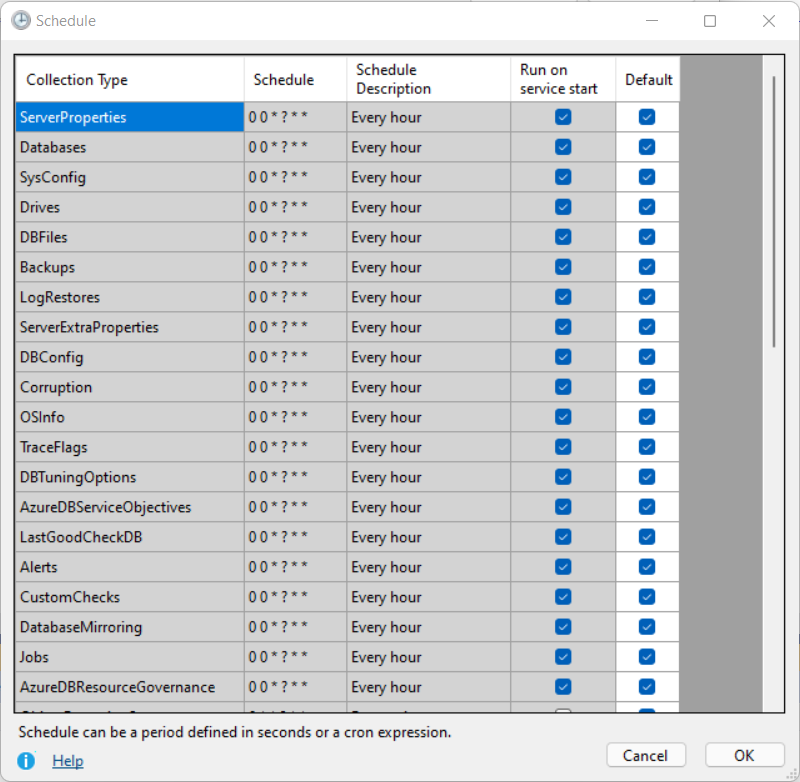
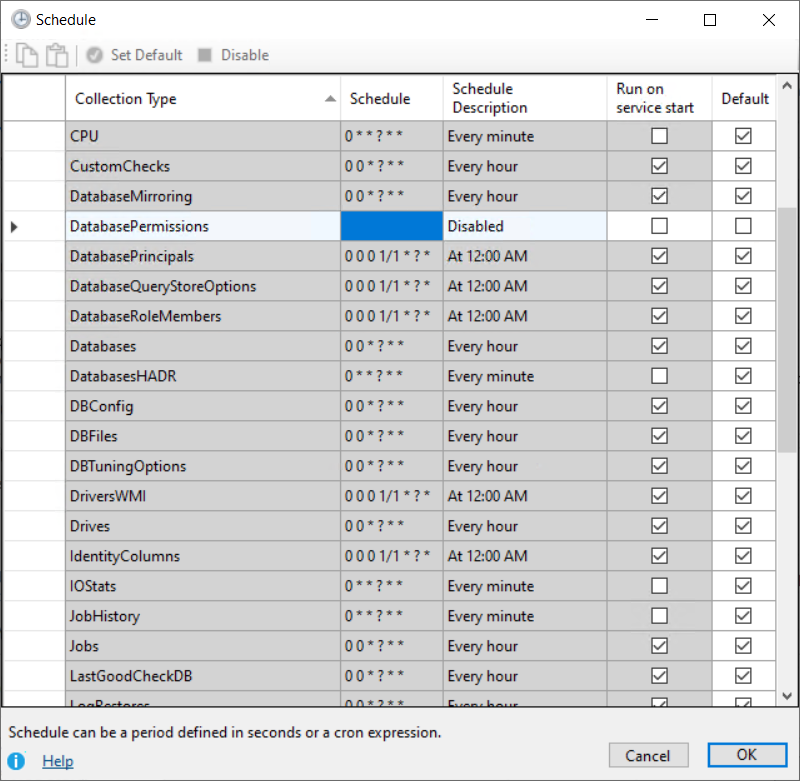
Update schedule docs

diff --git a/content/en/docs/help/schedule/index.md b/content/en/docs/help/schedule/index.md
@@ -127,6 +127,8 @@ Add [your own](CustomChecks.md) checks to DBA Dash.
 
 ## Schedule Customization
 
+![Schedule](schedule.PNG)
+
 The application has a default schedule listed above which aims to provide a good balance for most instances. If you increase the frequency of data collection, you will increase the monitoring impact and it could also increase the size of your DBA Dash repository database.  Less frequent collection could mean that the data is stale or doesn't provide enough granularity for performance troubleshooting.
 If you need to adjust the default schedule to better meet your needs, this can be done using the DBA Dash Service Config tool.  In the Options tab click "Configure Schedule".
 
@@ -134,14 +136,19 @@ If you want to override the default schedule, uncheck "Default" and enter a stri
 
 There is also the option to configure the collection to run on service start.  Restarting the service is an option if you need to manually refresh data before the scheduled collection runs.
 
-![Schedule](schedule.PNG)
+{{< alert icon="💡" text="Collections that share the same schedule will be collected together.  For example, CPU, performance counters, waits etc might all share the same 1min collection schedule.  Every 1min, a job will be triggered to collect this data.  The collections are run serially rather than separate triggers firing at the same time for every collection.  A separate job is used for each monitored SQL instance and each schedule - collections for different instances will run in parallel.  Any collections that are not applicable for the instance type will be skipped.  For example, Azure DB collections are skipped for regular SQL Instances. Agent job collections are skipped for Azure DB. Availability group collections are skipped if HADR isn't enabled. " />}}
+
+The schedule data is saved in the ServiceConfig.json for any collections that you have overridden from the default values. The application defaults are configured in [this source file](https://github.com/trimble-oss/dba-dash/blob/main/DBADash/CollectionSchedule.cs).
+
+## Bulk Edits
+
+![Schedule - Bulk changes](schedulebulk.PNG)
+
+To make it easier to apply updates to a group of schedules you can use the bulk edit features.  Use the row headers (highlighted above) to select the full row.  Select a single row to copy the schedule for that row.  Select the collections you want to update to have the same schedule and click paste.  There are also options to reset back to the default schedules or to disable the selected collections.
+
+## Per Instance customization
 
 If you configure the schedule in the options tab it will apply to all the monitored SQL instances for that agent.  If you want to adjust the schedule for a specific instance, click the "Source" tab.  In the "Existing Connections" grid, click the "Schedule" link to edit the schedule for a specific instance.  Any collections you don't override the schedule for will be inherited from the agent level configuration described earlier or from the built in application default values.  
-
-> **Note**
-> Collections that share the same schedule will be collected together.  For example, CPU, performance counters, waits etc might all share the same 1min collection schedule.  Every 1min, a job will be triggered to collect this data (serially) rather than separate triggers firing at the same time for each collection.  A separate job is used for each monitored SQL instance and each schedule.
-
-The schedule data is saved in the ServiceConfig.json for any collections that you have overridden from the default values. The application defaults are configured in [this source file](../DBADash/CollectionSchedule.cs).
 
 ## Cron Expressions
 
